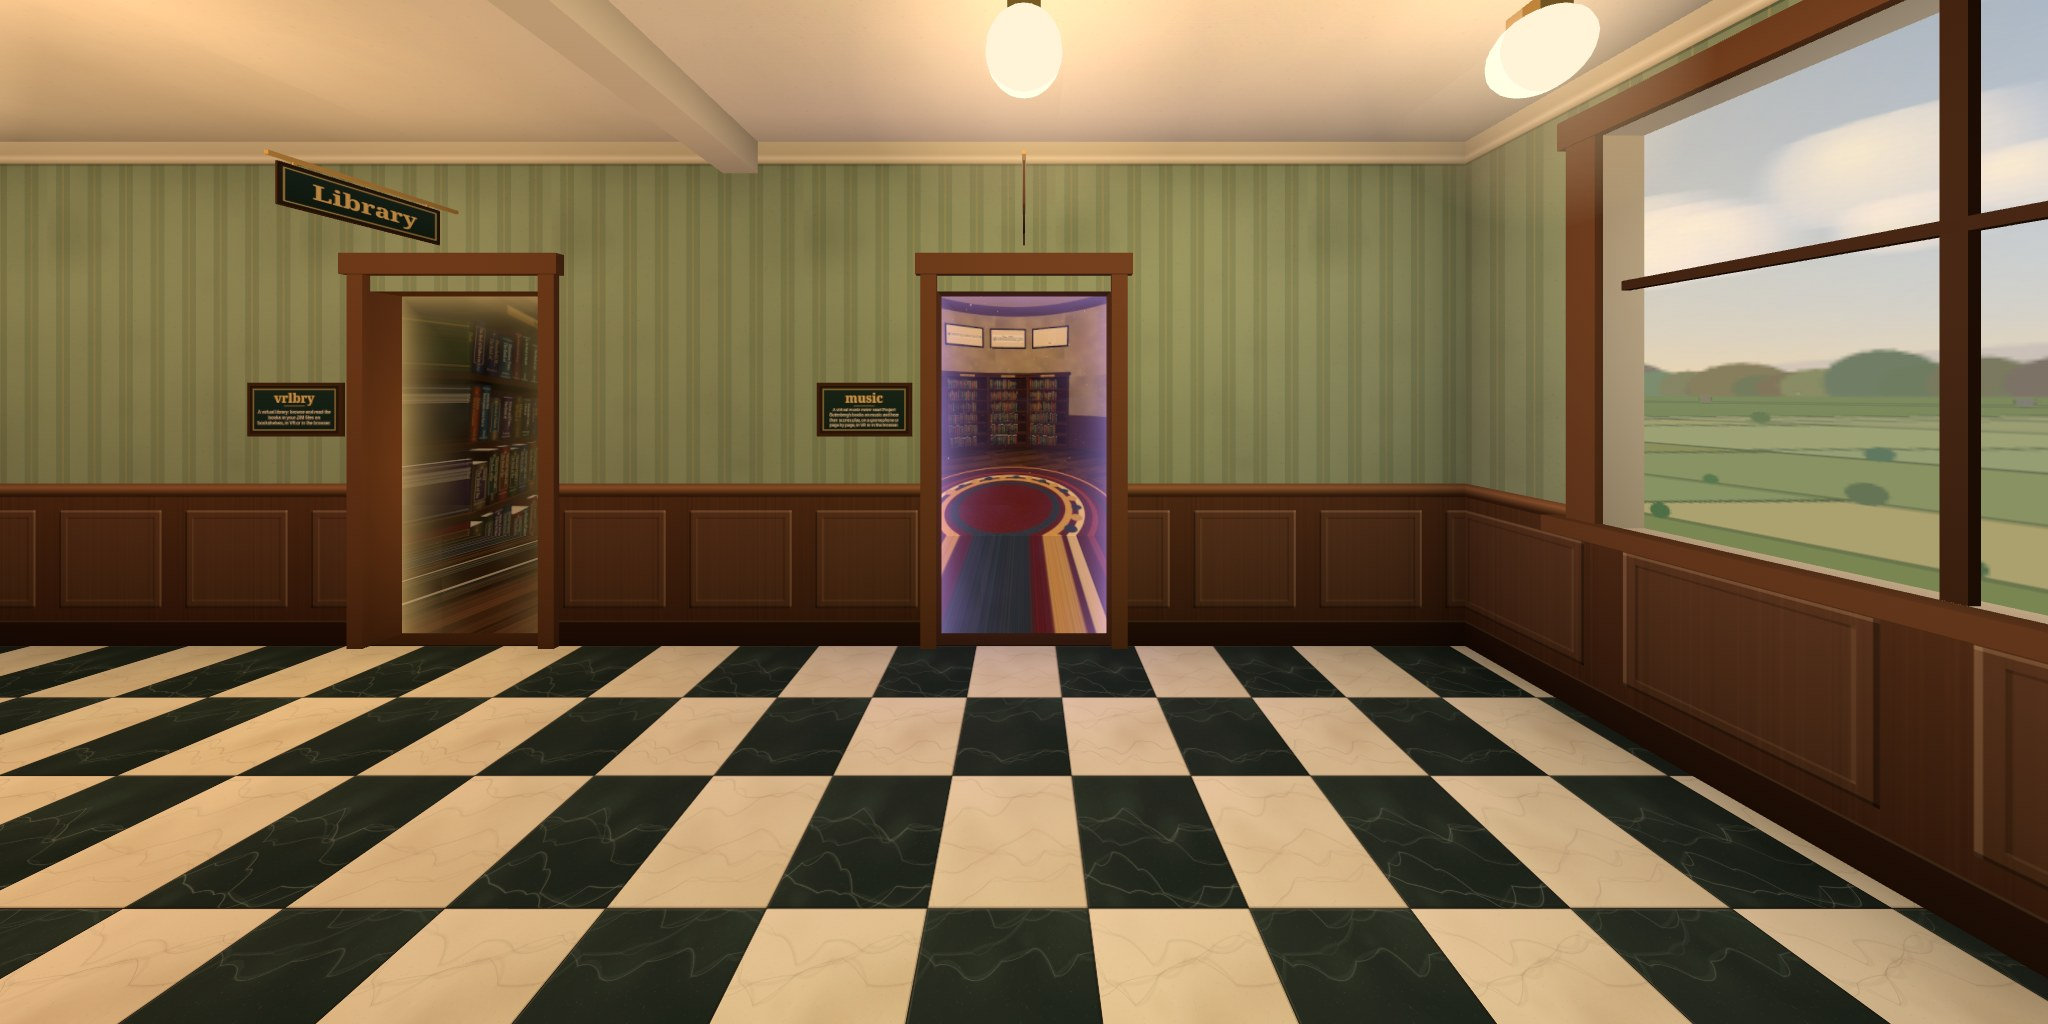
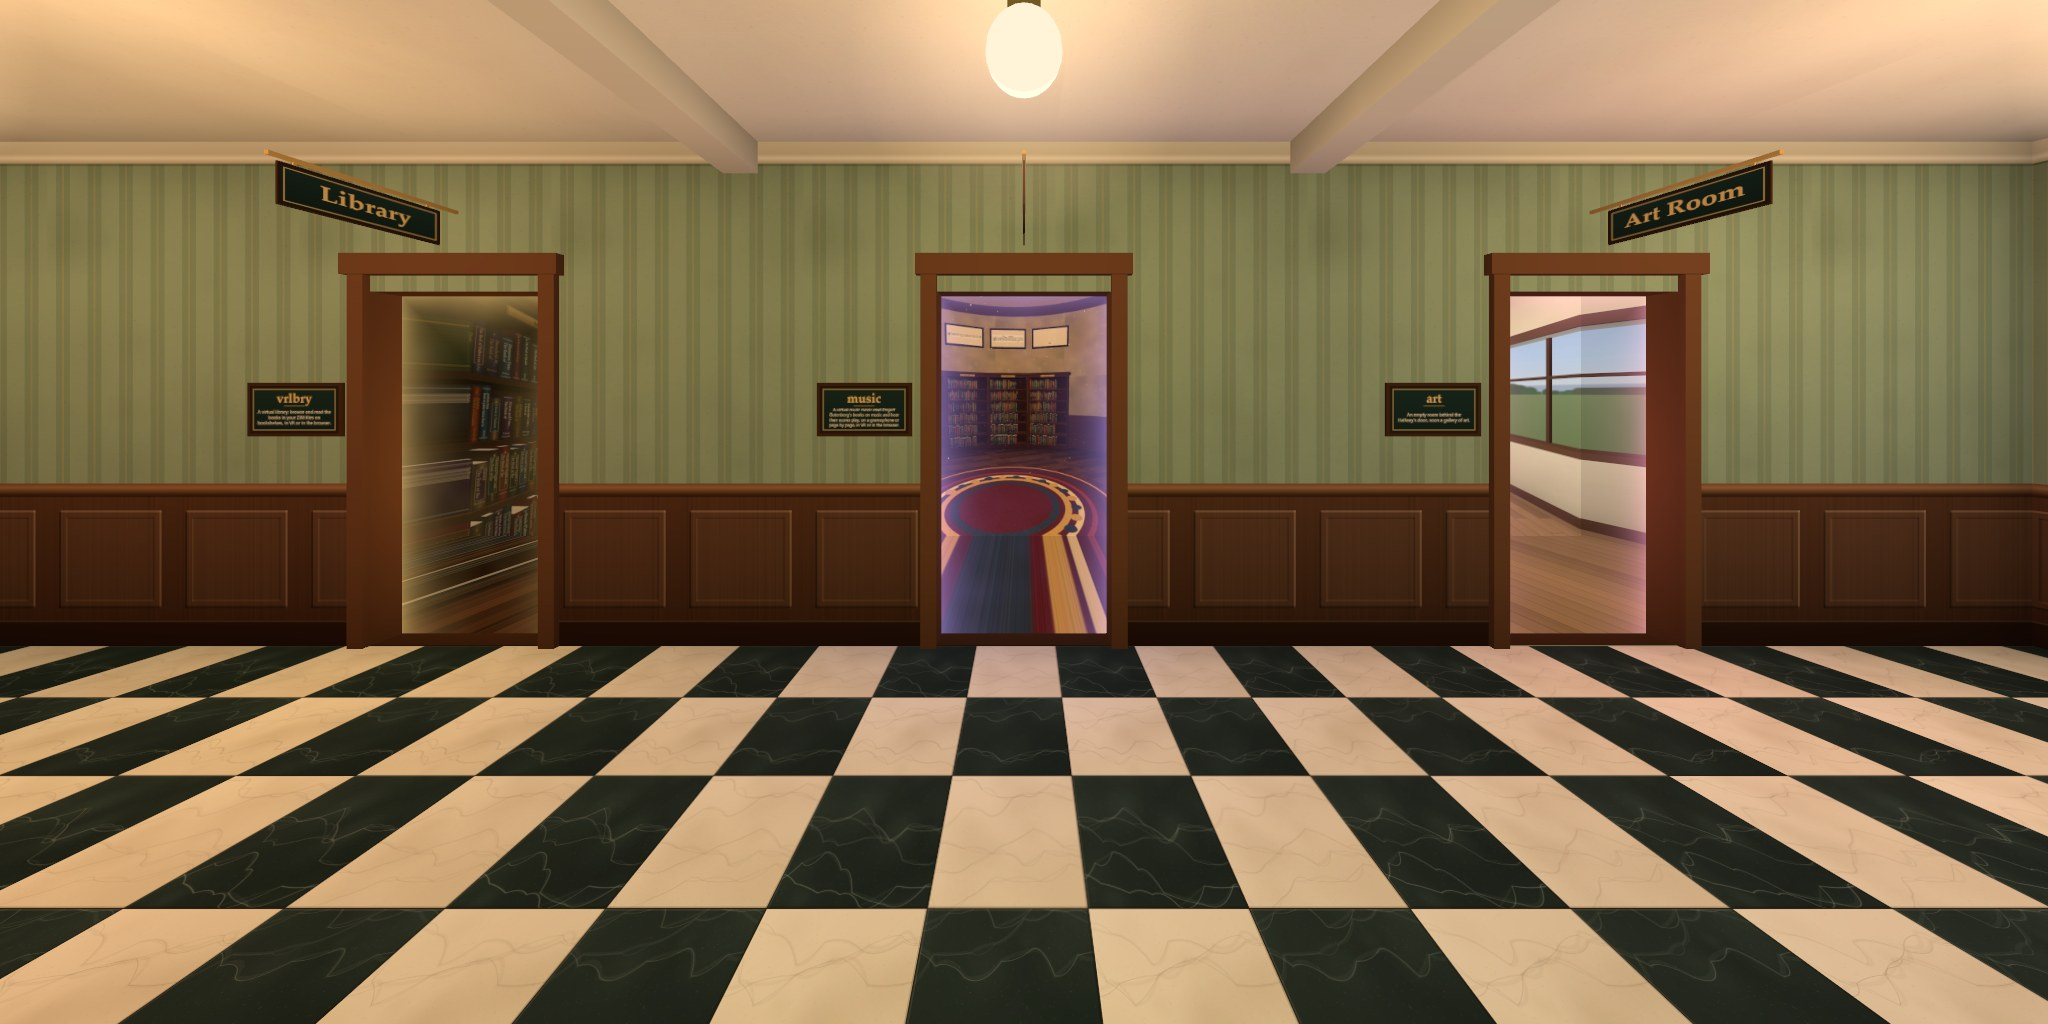
Doors to art and video, and the hall a pair longer
Two rooms made from AriaMoKr/RoomTemplateEmpty, still empty, get doors
after outside's: art (Art Room, #e08fb0) and video (Screening Room,
#6cb8e0). Each entry is its room's config.js hallwayDoor(), the
subtitle its page's description word for word, and both are in the
<noscript> list. The README and CLAUDE.md name them.

The hall grows by a pair on its own (layout.js): the end window is
3.6 m further down, 12.9 m from the entrance's spawn to the far end
(9.3 before), 6.8 s at a walk on a desktop, 3.4 s running, 7.2 s
gliding in VR.

The door views are rendered again, all six now: the new doors are
across the hall from music's and outside's, where the end window was,
and at the edges of vrlbry's and breadboard's. social.jpg sees the
Art Room and Screening Room signs down the hall. They were rendered in
a headless Chrome (door-views.mjs --chrome), so the signs and plaques
are in this computer's fonts, not the Quest's.

Checked: the end window and its sky; the panel, plaques and signs
clear of each other; an arrival from each of the six doors lands in
front of it; the walk; the doors list on a phone (320 x 568 and
667 x 375, and in a session at 320 x 568), where the card scrolls and
every control can be reached; the plaques fit both descriptions; the
tests pass; the account's bad-password count 0 before and after.

diff --git a/public/js/environments.js b/public/js/environments.js
@@ -56,4 +56,24 @@ export const ENVIRONMENTS = [
     preview: 'https://ariamokr.github.io/outside/hallway-preview.jpg',
     color: '#9fd07a',
   },
+  {
+    // Made from AriaMoKr/RoomTemplateEmpty: its public/js/config.js's hallwayDoor() is this entry.
+    id: 'art',
+    title: 'art',
+    subtitle: "An empty room behind the Hallway's door, soon a gallery of art.",
+    sign: 'Art Room',
+    url: 'https://ariamokr.github.io/art/',
+    preview: 'https://ariamokr.github.io/art/hallway-preview.jpg',
+    color: '#e08fb0',
+  },
+  {
+    // As art's: from RoomTemplateEmpty, its config.js's hallwayDoor().
+    id: 'video',
+    title: 'video',
+    subtitle: "An empty room behind the Hallway's door, soon a room to watch videos in. Walk it in VR on a Meta Quest, on a desktop or on a phone.",
+    sign: 'Screening Room',
+    url: 'https://ariamokr.github.io/video/',
+    preview: 'https://ariamokr.github.io/video/hallway-preview.jpg',
+    color: '#6cb8e0',
+  },
 ];

diff --git a/public/index.html b/public/index.html
@@ -39,6 +39,8 @@
       <li><a href="https://ariamokr.github.io/breadboard/vr.html">breadboard</a>: Ben Eater's 8-bit breadboard computer in 3D</li>
       <li><a href="https://ariamokr.github.io/music/">music</a>: a music room, where Project Gutenberg's books on music play their scores</li>
       <li><a href="https://ariamokr.github.io/outside/">outside</a>: a small garden, a stream and a pond, and a bench to read on</li>
+      <li><a href="https://ariamokr.github.io/art/">art</a>: an empty room, soon a gallery of art</li>
+      <li><a href="https://ariamokr.github.io/video/">video</a>: an empty room, soon a room to watch videos in</li>
     </ul>
   </div>
 </noscript>

diff --git a/README.md b/README.md
@@ -6,10 +6,11 @@ A WebXR corridor whose doors lead to other environments:
 [vrlbry](https://ariamokr.github.io/vrlbry/), a candle-lit virtual library;
 [Breadboard 8-bit](https://ariamokr.github.io/breadboard/vr.html), Ben Eater's 8-bit breadboard
 computer in 3D, run live by its simulator; [music](https://ariamokr.github.io/music/), a music
-room where Project Gutenberg's books on music play their scores; and
+room where Project Gutenberg's books on music play their scores;
 [Outside](https://ariamokr.github.io/outside/), a small garden with a stream, a pond and a bench to
-read on. Walk the hallway in VR on a Meta Quest, on a desktop or on a phone. There is nothing to
-install.
+read on; and two rooms still empty, [art](https://ariamokr.github.io/art/), soon a gallery of art,
+and [video](https://ariamokr.github.io/video/), soon a room to watch videos in. Walk the hallway in
+VR on a Meta Quest, on a desktop or on a phone. There is nothing to install.
 
 ![The hallway: a library's bookcases through an open door under a Library sign, and more doors and signs down a chequered floor to a window onto fields in the afternoon](public/social.jpg)
 

diff --git a/CLAUDE.md b/CLAUDE.md
@@ -10,7 +10,11 @@ whose conventions this project follows), Breadboard 8-bit's VR view
 (https://ariamokr.github.io/breadboard/vr.html), music (https://ariamokr.github.io/music/,
 AriaMoKr/music: a music room built from vrlbry, where Gutenberg's books on music play their scores) and Outside (https://ariamokr.github.io/outside/,
 AriaMoKr/outside: a small garden built for the door link, whose `HALLWAY_DOOR` in
-`public/js/way.js` is its entry here; keep them in step). All four take the VR hand-over.
+`public/js/way.js` is its entry here; keep them in step), and two rooms made from
+AriaMoKr/RoomTemplateEmpty and still empty, art (https://ariamokr.github.io/art/, AriaMoKr/art,
+soon a gallery) and video (https://ariamokr.github.io/video/, AriaMoKr/video, soon a room to watch
+videos in), each with its entry here as its `public/js/config.js`'s `hallwayDoor()`. All six take
+the VR hand-over.
 `public/` is the whole site. `README.md` covers
 using it, adding a door, and rendering the door views the site publishes. The door contract (what
 a door's link tells the environment, how environments link back, the door views) is AriaMoKr/common's
